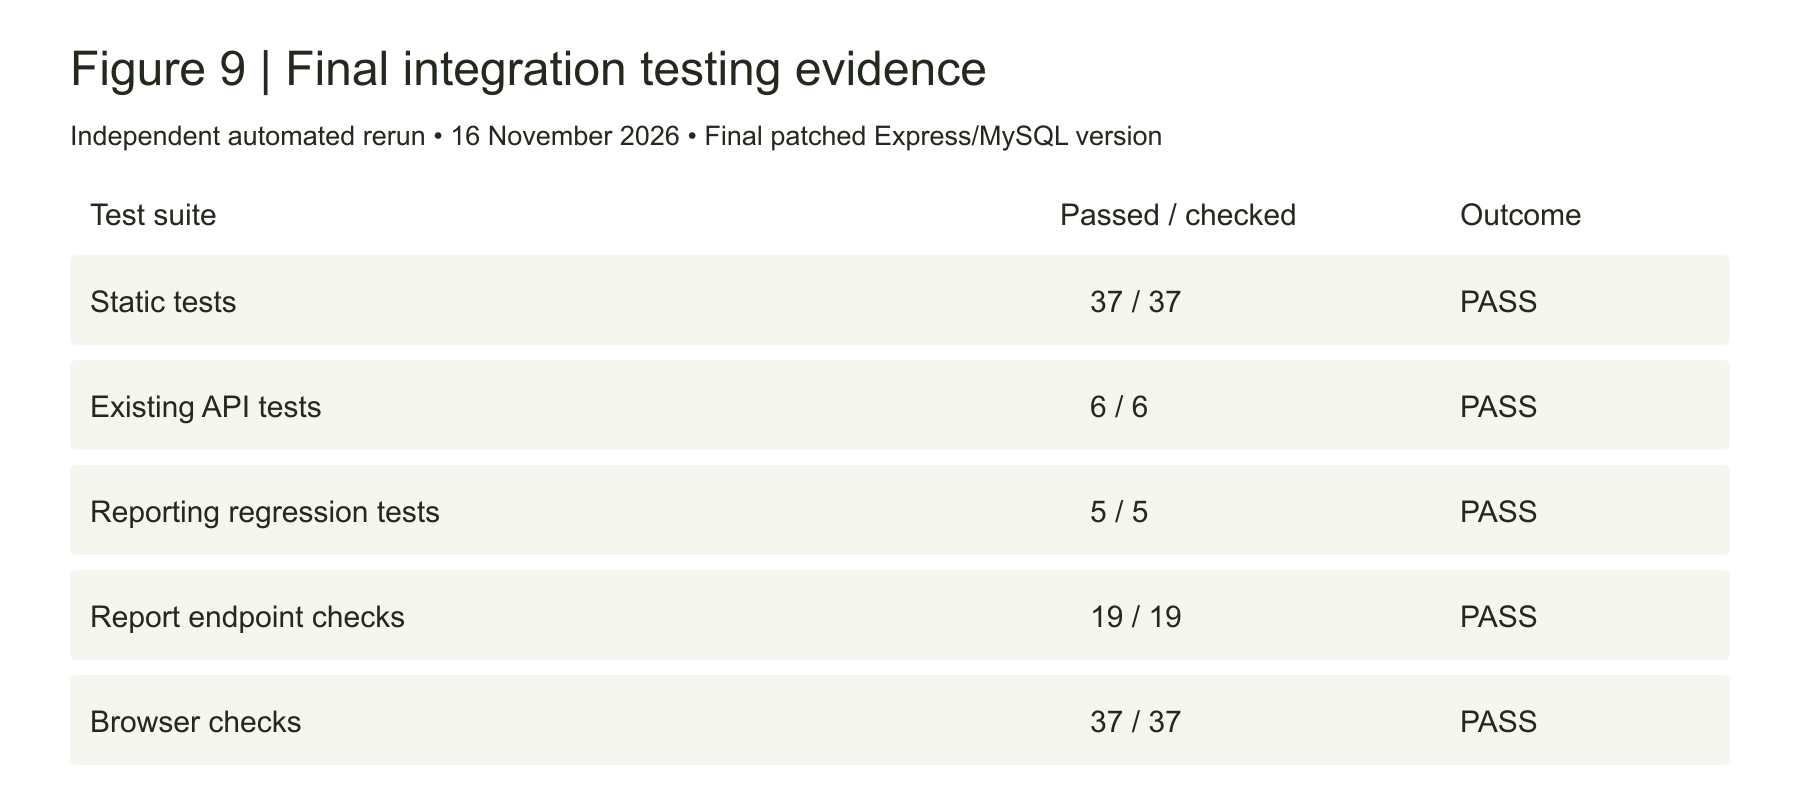
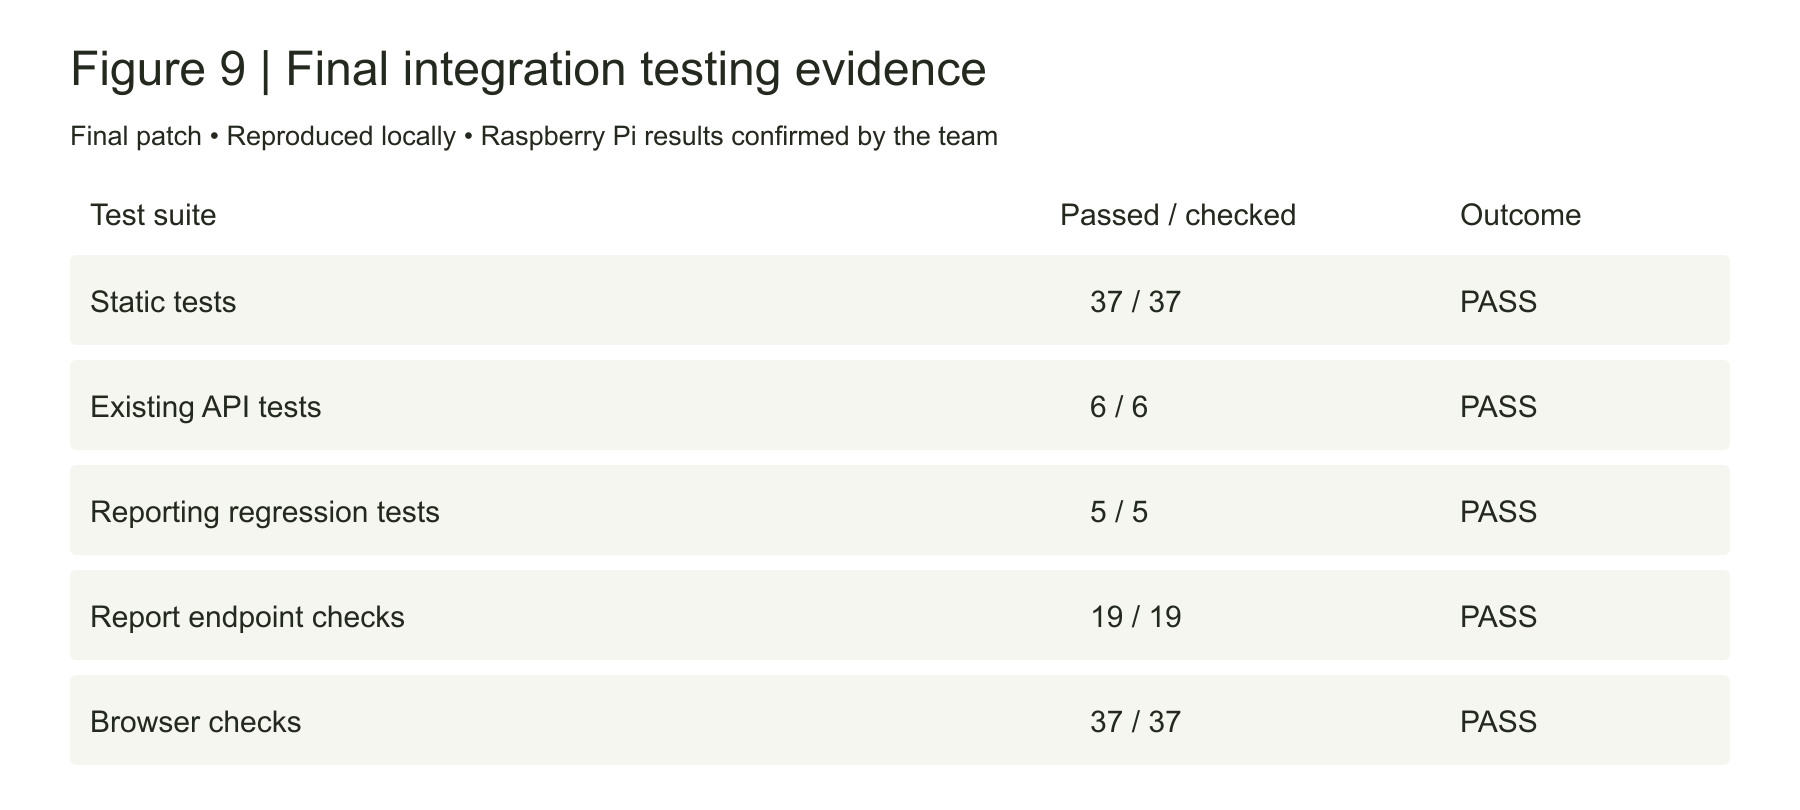
Record team-confirmed Raspberry Pi test results

Changed region(s): [[0.0311, 0.1543, 0.6533, 0.1852]]

diff --git a/Group Report/Final Report.md b/Group Report/Final Report.md
@@ -124,9 +124,9 @@ Flags have no review page, are not de-duplicated per person and change nothing o
 
 Integration mostly happened outside pull requests: #1 was merged into `main` on 6 November, #2 and #3 never reached it, and later files were committed directly. With no review step or automated check where one person's work met another's, these faults were found only in testing.
 
-The initial checks were written and run on 16 November with Claude in an isolated environment with a disposable database (Node 22, MariaDB 10.11, headless Chrome 153). On the same date, the final patch was independently rerun with Codex on Windows using Node 24.15.0, a separate MySQL84 test database and headless Chrome 156. The browser harness used simulated geolocation and locally served MapLibre resources with external requests blocked. These were AI-assisted automated checks, not manual testing by the team. The 28 original static tests match patterns in source text and passed while every fault was present. We therefore added API tests that fail on the unfixed code, and a scripted browser check.
+The initial checks were written and run on 16 November with Claude in an isolated environment with a disposable database (Node 22, MariaDB 10.11, headless Chrome 153). On the same date, the final patch was independently rerun with Codex on Windows using Node 24.15.0, a separate MySQL84 test database and headless Chrome 156. The local browser harness used simulated geolocation and locally served MapLibre resources with external requests blocked. The team subsequently repeated the checks against the application deployed on the Raspberry Pi and confirmed the same final results shown in Table 3. These automated checks are separate from the user testing described in Section 2.1.1. The 28 original static tests match patterns in source text and passed while every fault was present. We therefore added API tests that fail on the unfixed code, and a scripted browser check.
 
-| Level | Command | Before fixes (earlier run) | Final patch (independent rerun) |
+| Level | Command | Before fixes (earlier run) | Final patch (local and Raspberry Pi reruns) |
 |---|---|---|---|
 | Static tests | `npm run test:static` | 28 of 28 | 37 of 37 (9 new) |
 | API tests | `npm test` | 6 of 6 | 6 of 6 |
@@ -134,15 +134,15 @@ The initial checks were written and run on 16 November with Claude in an isolate
 | Report API check | `report-api-check.mjs` | 18 of 19 | 19 of 19 |
 | Browser check | `report-form-check.mjs` | 20 of 24 | 37 of 37 |
 
-*Table 3: Earlier pre-fix results reported in the supplied draft and independently rerun final-patch results on 16 November 2026. The pre-fix results were not independently repeated.*
+*Table 3: Earlier pre-fix results and final-patch results reproduced locally and confirmed by the team on the Raspberry Pi deployment. The pre-fix results were not independently repeated.*
 
 ![Figure 9: Final integration testing evidence](figures/figure-9-integration-testing-evidence.png)
 
-*Figure 9: Independently rerun automated checks of the final patched Express/MySQL application on 16 November 2026. All listed checks met their expectations.*
+*Figure 9: Final automated test results, reproduced locally and confirmed by the team against the Raspberry Pi deployment. All listed checks met their expectations.*
 
 Three faults in the earlier implementation were investigated through browser testing. Pressing Escape while choosing a point on the map left the form closed and, at the next opening, empty. Event logging showed why: the `keydown` listener in `map-ui.js` reopened the dialog during the key event, and Chrome then applied Escape's default action to it. This mainly affected keyboard users, since the on-screen Cancel button worked. The listener now calls `preventDefault()`, and the form reopens with the typed note intact. Second, the confirmation was requested for 5.2 seconds, but `toast()` accepted no duration and removed it after 2.6. As the dialog has already closed, that message is the user's only evidence that the report was stored. `toast()` now takes an optional duration, and the message was measured at 5.2 seconds. Third, a network failure showed the browser's own "Failed to fetch"; `submit()` now catches that case and shows a plain message, keeping the form and its input.
 
-The independent rerun verified the final patch against MySQL, including report persistence, moderation and public visibility. It did not establish behaviour on a phone, with a real camera or screen reader, or on the Raspberry Pi deployment. The new API tests need a running server and database, so they do not yet run on each pull request.
+The local rerun verified the final patch against MySQL, including report persistence, moderation and public visibility; the team also confirmed the same test results on the Raspberry Pi deployment using MariaDB. These results do not establish behaviour on a phone, with a real camera or with a screen reader. The new API tests need a running server and database, so they do not yet run on each pull request.
 
 ## 3 Back-end Development
 
